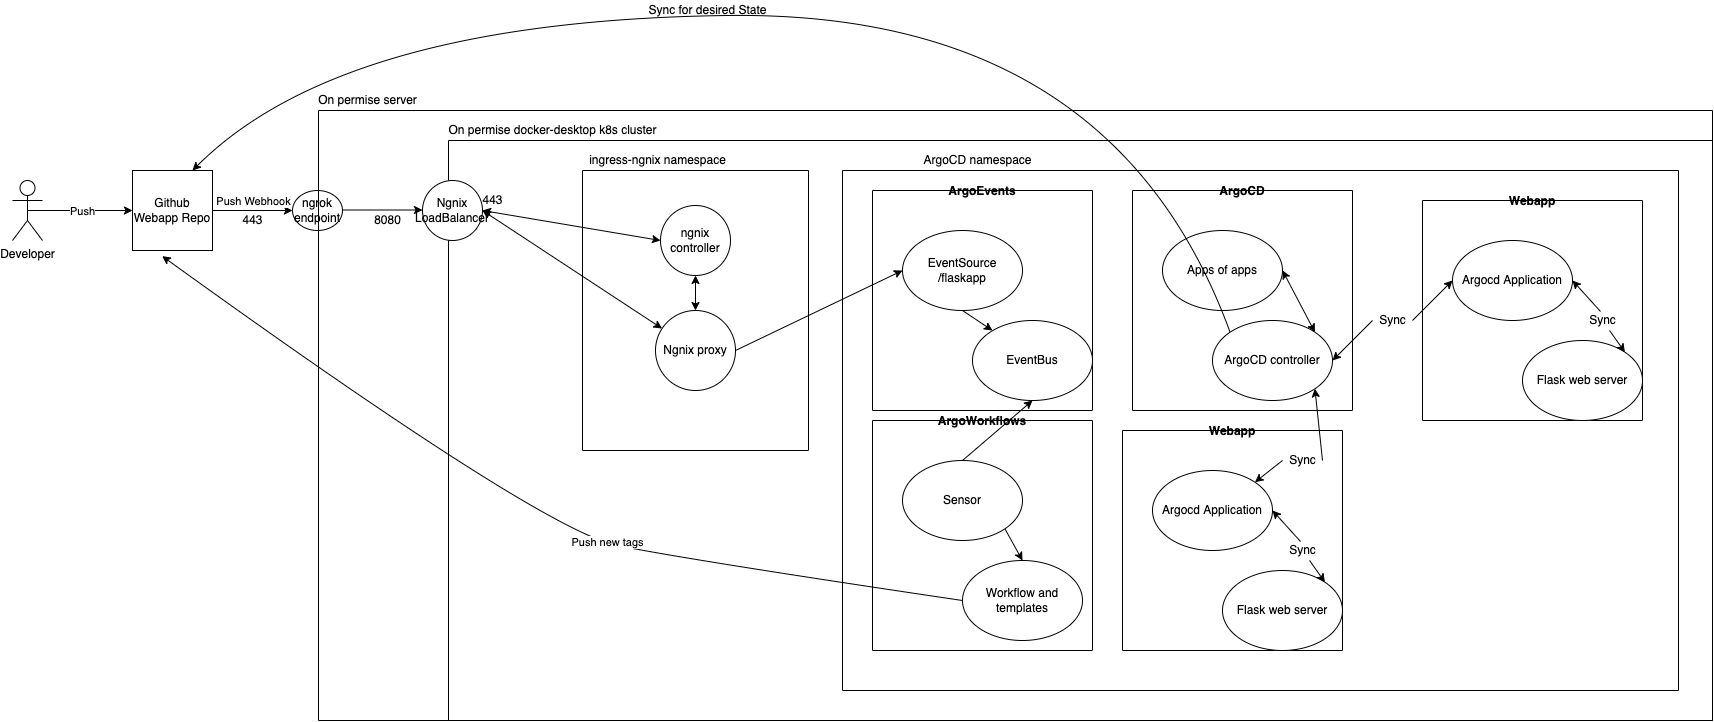
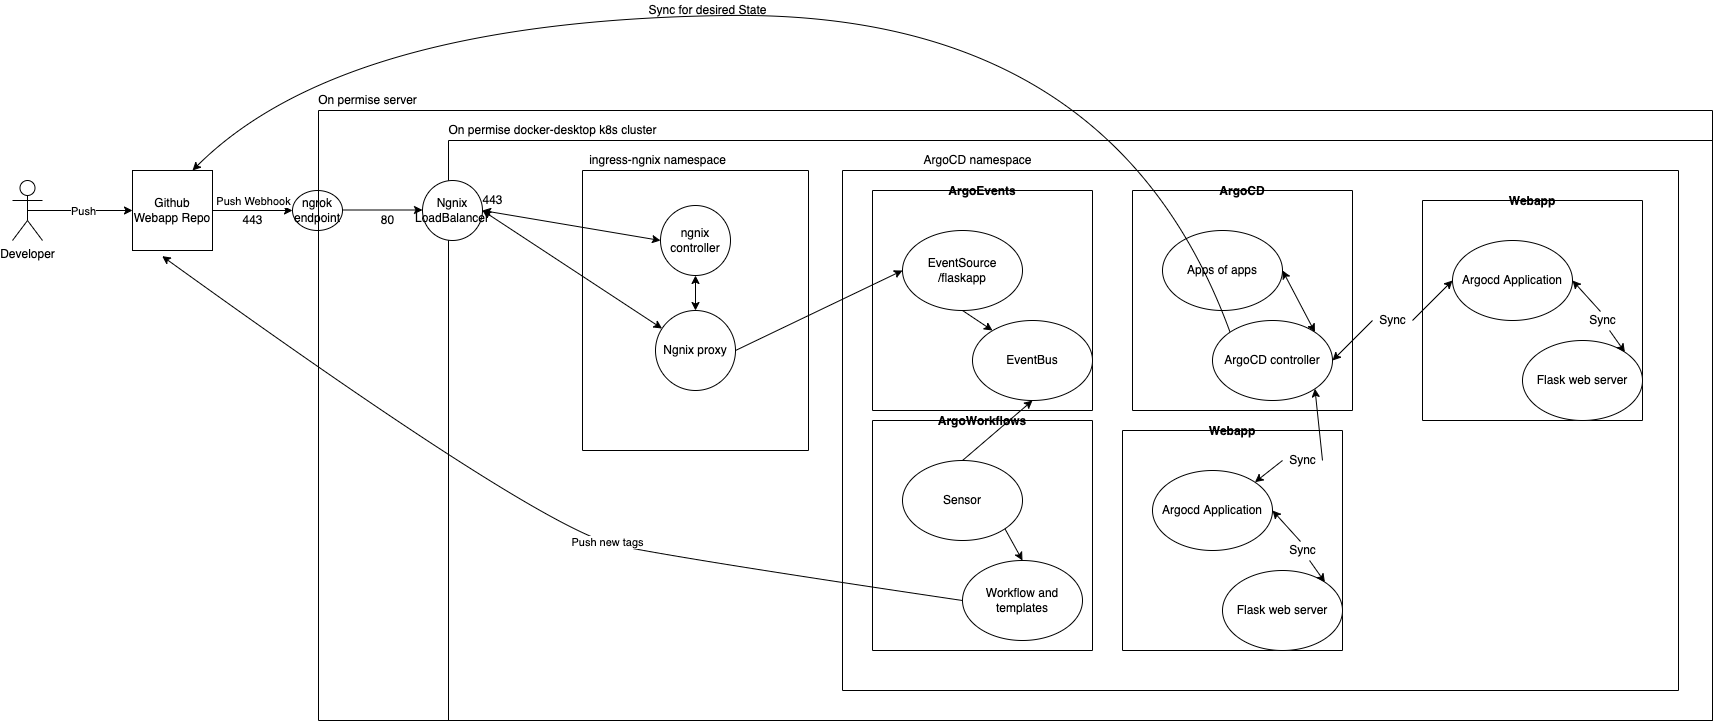
update

diff --git a/README.md b/README.md
@@ -99,14 +99,13 @@ kubectl create -n argocd secret docker-registry regcred \
 ```
 3. expose using ngrok
 ```
-ngrok tls webhook.example 443
+ngrok http webhook.example:80
 ```
 
 
 # Future features:
-1. Use ngrok to expose port 443 and get POST request from webhook.
-2. automatic deployment by changing the tag of flask-app in argocd/apps/value.yaml file after build and pushing to dockerhub.
-3. intergrating integration test in staging enviorment before. if failed will revert changes by updating back the value.yaml file 
-4. seperate applications and infra to diffrent namespaces.
+1. automatic deployment by changing the tag of flask-app in argocd/apps/value.yaml file after build and pushing to dockerhub.
+2. intergrating integration test in staging enviorment before. if failed will revert changes by updating back the value.yaml file 
+3. seperate applications and infra to diffrent namespaces.
 
 
